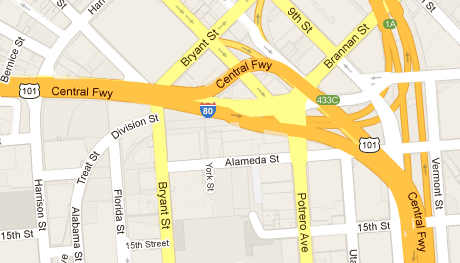
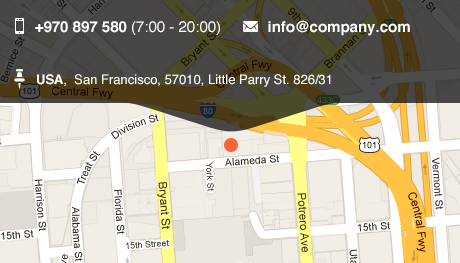
add contact section

diff --git a/css/stylesheet.css b/css/stylesheet.css
@@ -371,43 +371,50 @@ progress::-webkit-progress-value {
 .p-contact .p-divet {
   border-top: 20px solid white;
 }
-.l-contact-body {
+.l-contact-blurb {
+  margin: auto;
+  padding-left: 10%;
+  padding-right: 10%;
 }
 .l-contact-form {
+  position: relative;
   display: inline-block;
-  width: 350px;
-  margin-left: 10%;
-  margin-right: 5%;
+  width: 90%;
+  margin: 5%;
 }
 .l-contact-form input, .l-contact-form textarea {
   border: 0px;
-  margin: 1%;
+  margin-bottom: 5px;
+  margin-right: 0;
   width: 100%;
 }
 .l-contact-input-company {
-  height: 30px;
+  height: 40px;
 }
 .l-contact-input-email {
-  height: 30px;
+  height: 40px;
 }
 .l-contact-input-message {
-  height: 90px;
+  height: 150px;
 }
 .l-message-button {
+  position: absolute;
   width: 25%;
   font-size: .5em;
-  margin-left: auto;
-  margin-right: 0%;
+  margin: auto;
 }
-
 .l-contact-map {
-  position:relative;
+  position: relative;
   display: inline-block;
+  width: 90%;
+  margin: auto;
+}
+.l-contact-map img {
+  width: 100%;
+  margin: 15% 5% 10% 5%;
 }
 .p-contact-form {
   background-color: #7f331b;
-  padding: 5%;
-  margin: 5%;
 }
 ::-webkit-input-placeholder {
   color: white;
@@ -595,12 +602,45 @@ progress::-webkit-progress-value {
   display: inline-block;
 }
 .l-client {
-display: inline-block;
+  display: inline-block;
 }
 .p-pricing-tables {
   font-size: 1em;
   margin: 2.5% 5% 2.5% 2.5%;
   width: 15%;
   display: inline-block;
+}
+.l-contact-blurb {
+  margin: auto;
+  padding-left: 10%;
+  padding-right: 10%;
+}
+.l-contact-form {
+  width: 460px;
+  height: 293px;
+  margin: 40px 0 40px 126px;
+}
+.l-contact-form input, .l-contact-form textarea {
+  border: 0px;
+  margin: 5px;
+  margin-right: 0;
+  width: 100%;
+}
+.l-message-button {
+  position: absolute;
+  width: 25%;
+  font-size: .5em;
+  right: 0;
+}
+.l-contact-map {
+  margin-left: 10px;
+  margin-right: 0;
+  margin-top: 60px;
+  width: auto;
+}
+.l-contact-map img {
+  width: 460px;
+  height: 268px;
+  margin: 0;
 }
 }

diff --git a/index.html b/index.html
@@ -399,7 +399,7 @@
           <div class="p-title-line"></div>
         </section>
 
-        <p>Contrary to popular belief, Lorem Ipsum is not simply random text. It has roots in a piece of classical Latin literature from 45 BC, making it over 2000 years old. Richard McClintock, a Latin professor at Hampden-Sydney College in Virginia.</p>
+        <p class="l-contact-blurb">Contrary to popular belief, Lorem Ipsum is not simply random text. It has roots in a piece of classical Latin literature from 45 BC, making it over 2000 years old. Richard McClintock, a Latin professor at Hampden-Sydney College in Virginia.</p>
 
         <section class="l-contact-body">
           <form class="l-contact-form">
